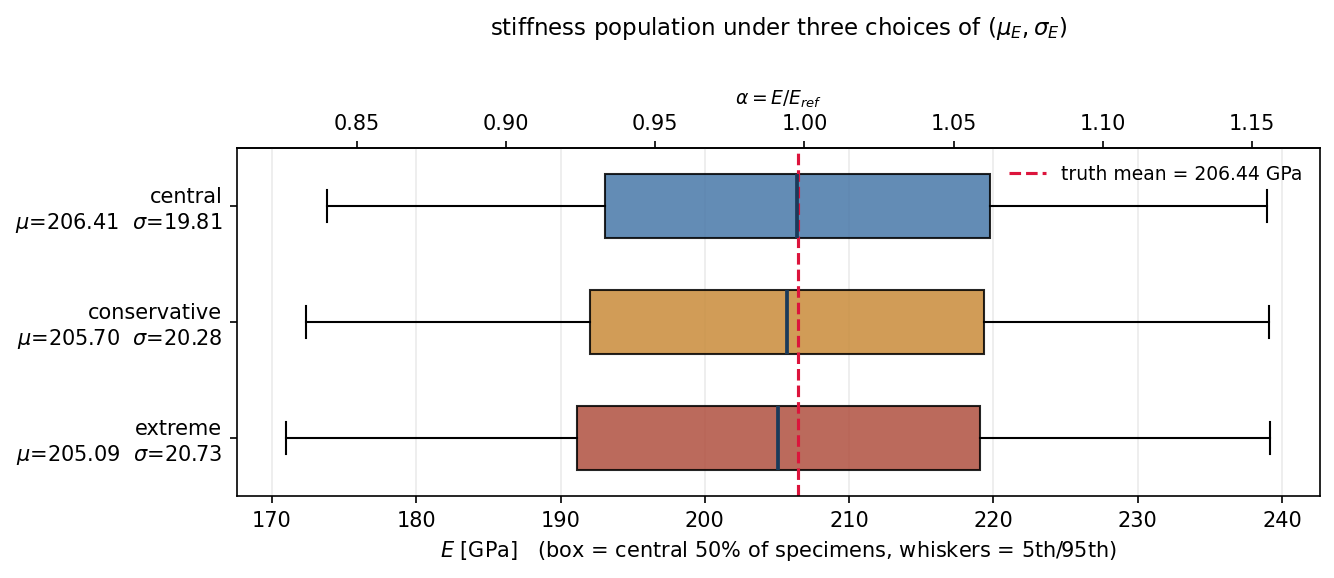
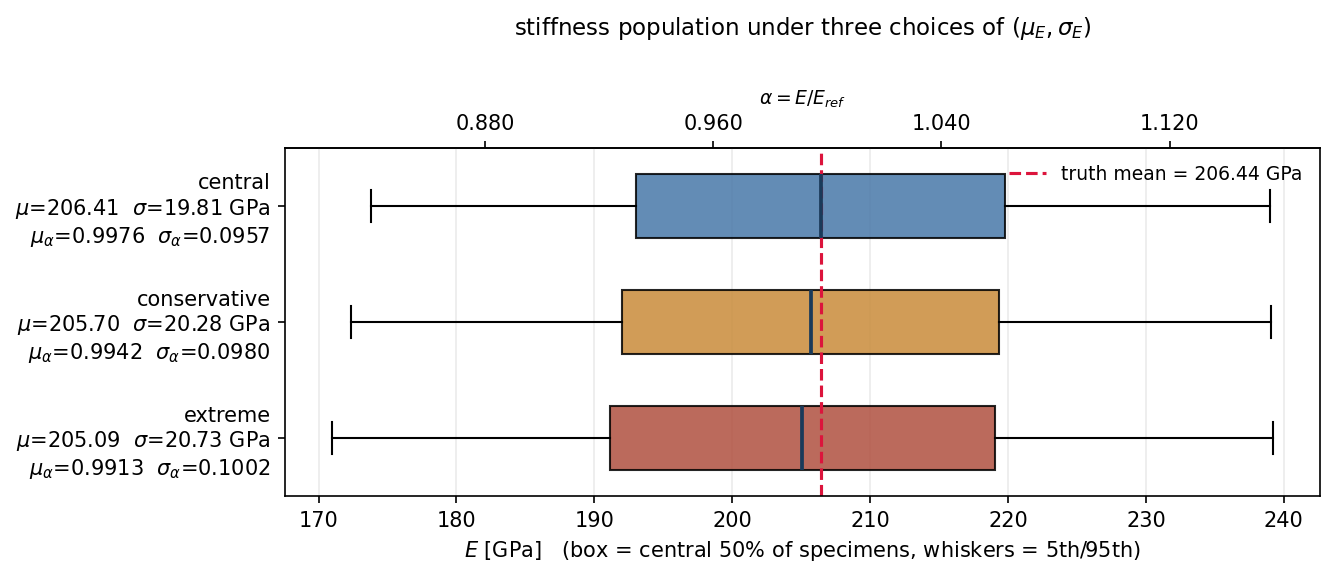
Update population and surrogate plots
- plot_population_posterior.py: alpha secondary axis picks tick decimals
  from the axis span so mu_alpha ticks stay distinct; box-plot labels show
  mu/sigma in GPa and as alpha.
- plot_surrogate.py: single-panel u(E) fit, residual panel removed.
- Regenerated population_*.png outputs.

diff --git a/beam/bayesian_inference/plot_surrogate.py b/beam/bayesian_inference/plot_surrogate.py
@@ -61,39 +61,26 @@ def main():
     mean, sd = gp.predict(e_fine, return_std=True)
     k = args.sensor
 
-    fig, ax = plt.subplots(2, 1, figsize=(8.2, 7.4), sharex=True,
-                           gridspec_kw={"height_ratios": [3, 2]})
+    fig, ax = plt.subplots(figsize=(8.2, 4.8))
 
-    ax[0].fill_between(e_fine / 1e9, (mean[:, k] - 2 * sd[:, k]) * 1e6,
-                       (mean[:, k] + 2 * sd[:, k]) * 1e6,
-                       color="0.85", label="GP 95% band")
-    ax[0].plot(e_fine / 1e9, mean[:, k] * 1e6, "-", color="C0", lw=1.6,
-               label="GP surrogate")
-    ax[0].plot(e_tr / 1e9, u_tr[:, k] * 1e6, "o", ms=5, color="C3",
-               label=f"training solves (n={e_tr.size})")
-    ax[0].plot(e_va / 1e9, u_va[:, k] * 1e6, "x", ms=7, mew=1.6, color="C2",
-               label=f"validation solves (n={e_va.size})")
-    ax[0].set_ylabel(r"tip deflection  $u$  [$\mu$m]")
-    ax[0].set_title("Response surrogate  $u(E)$")
-    ax[0].legend(frameon=False, fontsize=9)
-    ax[0].grid(alpha=0.3)
+    ax.fill_between(e_fine / 1e9, (mean[:, k] - 2 * sd[:, k]) * 1e6,
+                    (mean[:, k] + 2 * sd[:, k]) * 1e6,
+                    color="0.85", label="GP 95% band")
+    ax.plot(e_fine / 1e9, mean[:, k] * 1e6, "-", color="C0", lw=1.6,
+            label="GP surrogate")
+    ax.plot(e_tr / 1e9, u_tr[:, k] * 1e6, "o", ms=5, color="C3",
+            label=f"training solves (n={e_tr.size})")
+    ax.plot(e_va / 1e9, u_va[:, k] * 1e6, "x", ms=7, mew=1.6, color="C2",
+            label=f"validation solves (n={e_va.size})")
+    ax.set_xscale("log")
+    ax.set_xlabel("Young's modulus  $E$  [GPa]")
+    ax.set_ylabel(r"tip deflection  $u$  [$\mu$m]")
+    ax.set_title("Response surrogate  $u(E)$")
+    ax.legend(frameon=False, fontsize=9)
+    ax.grid(alpha=0.3)
 
-    res_tr = (gp.predict(e_tr)[:, k] - u_tr[:, k])
-    res_va = (gp.predict(e_va)[:, k] - u_va[:, k])
-    ax[1].axhspan(-gate * 1e9, gate * 1e9, color="C1", alpha=0.15,
-                  label=f"gate  ±{gate:.2e} m")
-    ax[1].axhline(0.0, color="0.5", lw=0.8)
-    ax[1].plot(e_tr / 1e9, res_tr * 1e9, "o", ms=5, color="C3", label="training")
-    ax[1].plot(e_va / 1e9, res_va * 1e9, "x", ms=7, mew=1.6, color="C2",
-               label="validation")
-    ax[1].set_xlabel("Young's modulus  $E$  [GPa]")
-    ax[1].set_ylabel("surrogate $-$ Kratos  [nm]")
-    ax[1].set_title(f"Residuals   max |validation error| = "
-                    f"{np.abs(res_va).max():.3e} m  "
-                    f"({np.abs(res_va).max() / sigma[k]:.1e} $\\sigma$)")
-    ax[1].legend(frameon=False, fontsize=9)
-    ax[1].grid(alpha=0.3)
-    ax[1].set_xscale("log")
+    res_tr = gp.predict(e_tr)[:, k] - u_tr[:, k]
+    res_va = gp.predict(e_va)[:, k] - u_va[:, k]
 
     fig.tight_layout()
     png = os.path.join(out["dir"], "surrogate_fit.png")

diff --git a/beam/bayesian_inference/hierarchical/plot_population_posterior.py b/beam/bayesian_inference/hierarchical/plot_population_posterior.py
@@ -40,12 +40,22 @@ if os.path.exists(sfile):
 
 
 def alpha_axis(ax, where="top", label=r"$\alpha = E/E_{ref}$"):
-    """Secondary scale in alpha. Every axis in this file is already in GPa."""
+    """Secondary scale in alpha. Every axis in this file is already in GPa.
+    Ticks are given enough decimals to stay distinct -- mu_alpha spans about
+    0.003, so the default two-decimal formatter would print 1.00 five times."""
     fwd, inv = (lambda v: v / E_REF), (lambda v: v * E_REF)
-    sec = (ax.secondary_xaxis(where, functions=(fwd, inv)) if where in ("top", "bottom")
+    horizontal = where in ("top", "bottom")
+    sec = (ax.secondary_xaxis(where, functions=(fwd, inv)) if horizontal
            else ax.secondary_yaxis(where, functions=(fwd, inv)))
-    sec.set_xlabel(label, fontsize=9) if where in ("top", "bottom") \
-        else sec.set_ylabel(label, fontsize=9)
+    lo, hi = (ax.get_xlim() if horizontal else ax.get_ylim())
+    span = abs(hi - lo) / E_REF
+    dec = 2 if span <= 0 else int(np.clip(np.ceil(-np.log10(span / 5.0)) + 1, 2, 6))
+    fmt = matplotlib.ticker.FuncFormatter(lambda v, _pos: f"{v:.{dec}f}")
+    (sec.xaxis if horizontal else sec.yaxis).set_major_formatter(fmt)
+    (sec.xaxis if horizontal else sec.yaxis).set_major_locator(
+        matplotlib.ticker.MaxNLocator(nbins=6))
+    sec.set_xlabel(label, fontsize=9) if horizontal else sec.set_ylabel(label,
+                                                                       fontsize=9)
     return sec
 
 
@@ -226,7 +236,9 @@ stats, rows = [], []
 for name, p_mu, p_sd in CASES:
     m = np.percentile(post_g[:, 0], p_mu)
     s = np.percentile(post_g[:, 1], p_sd)
-    stats.append({"label": f"{name}\n$\\mu$={m:.2f}  $\\sigma$={s:.2f}",
+    stats.append({"label": f"{name}\n$\\mu$={m:.2f}  $\\sigma$={s:.2f} GPa\n"
+                           f"$\\mu_\\alpha$={m / E_REF:.4f}  "
+                           f"$\\sigma_\\alpha$={s / E_REF:.4f}",
                   "med": m, "q1": m + Z25 * s, "q3": m + Z75 * s,
                   "whislo": m + Z05 * s, "whishi": m + Z95 * s, "fliers": []})
     rows.append((name, p_mu, p_sd, m, s, m + Z05 * s))
